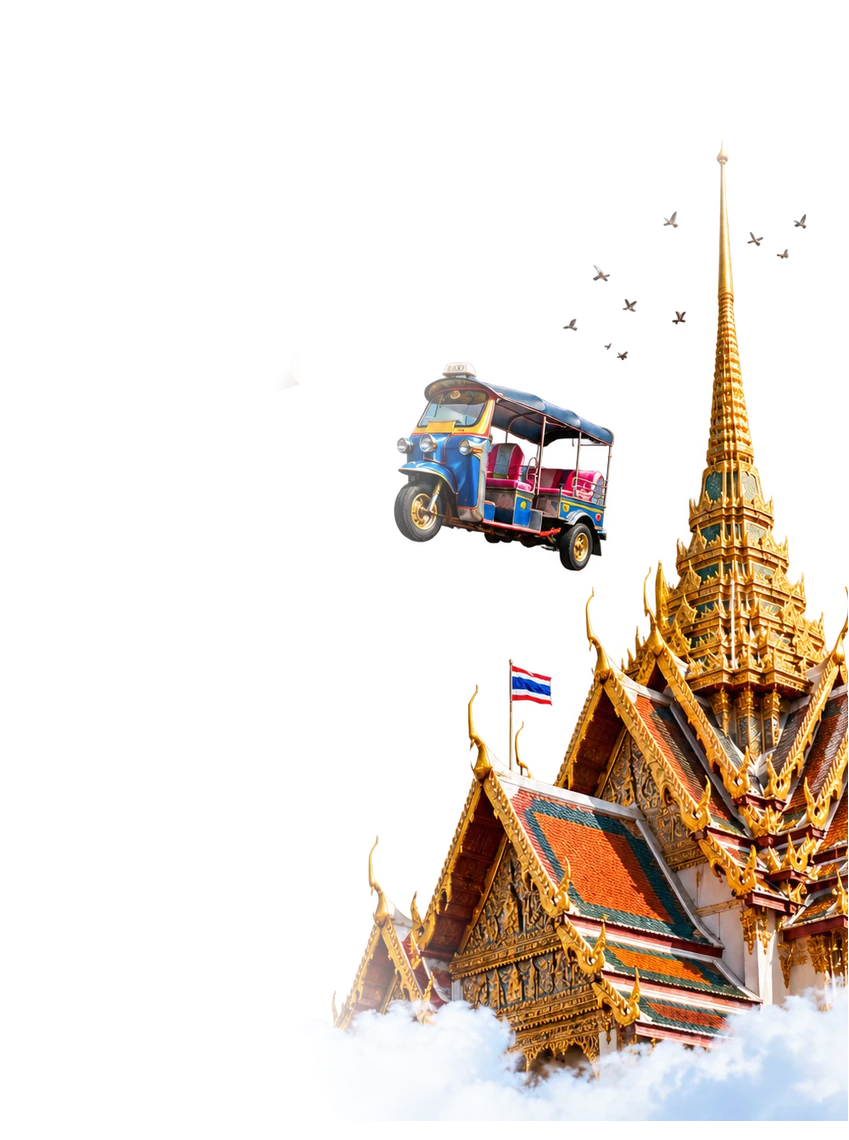
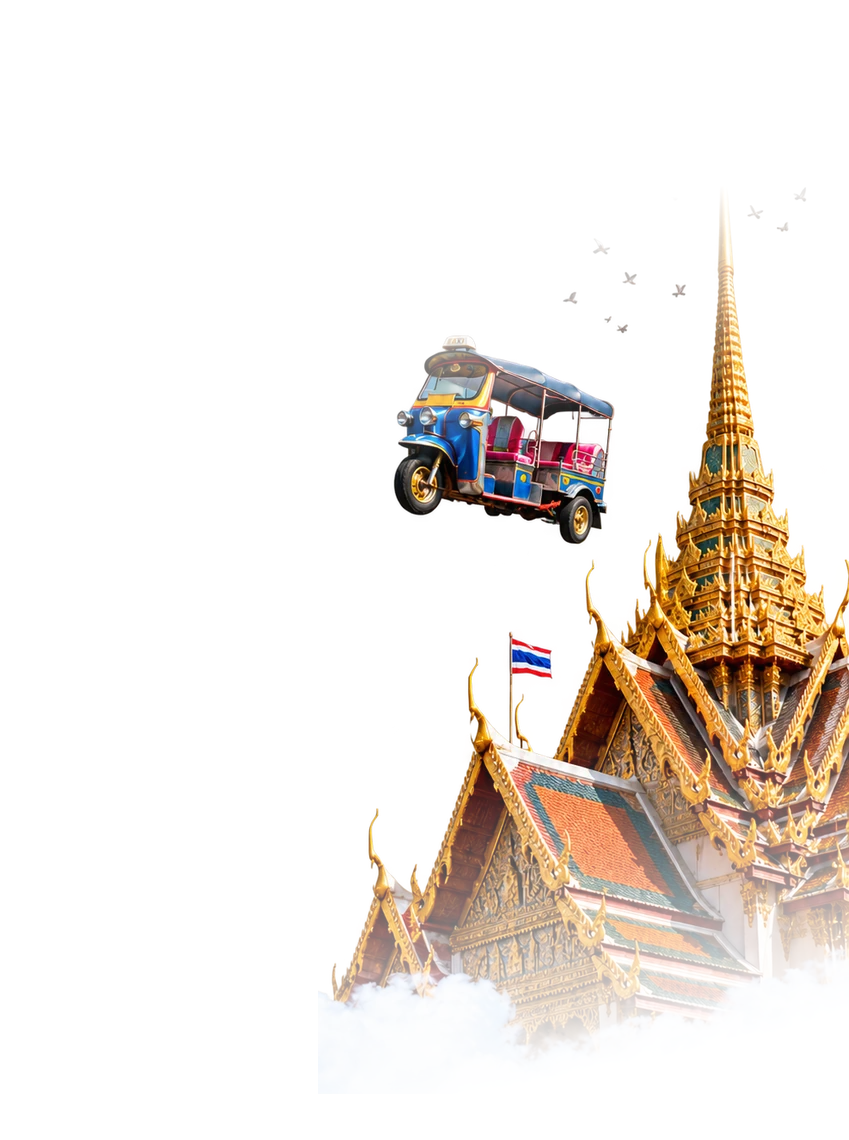
Landing: updated temple art crop and fade, side cards solid at the outer edge, flag stays on the Thailand line
Claude-Session: https://claude.ai/code/session_013MdCXttExsD2CyVM1aGLkq

diff --git a/index.html b/index.html
@@ -124,7 +124,7 @@ h1{font-weight:800;font-size:28px;letter-spacing:-1px;text-align:center;line-hei
 .top .header{position:relative;z-index:1}
 /* sits 31px above the header, as in the frame, whether or not the status bar shows */
 .decoTop.mapfade{top:calc(100% - 75px);left:auto;height:380px;overflow:visible;-webkit-mask-image:none;mask-image:none}
-.heroTitle{padding:10px 24px;width:261px;text-align:left;font-weight:900;font-size:40px;line-height:46px;letter-spacing:-1px;color:#111214}
+.heroTitle{padding:10px 24px;width:max-content;white-space:nowrap;text-align:left;font-weight:900;font-size:40px;line-height:46px;letter-spacing:-1px;color:#111214}
 .heroTitle .lt{font-weight:500}
 .carousel .views span,.row .views span,.deck .views span{font-weight:700;color:#c4a3ff}
 .carousel .info{padding:20px 16px 16px;gap:12px}
@@ -890,7 +890,7 @@ body.locked{overflow:hidden}
       </div></div></section>
 
       <section>
-        <h1 class="heroTitle"><span class="lt">Trending in</span> Thailand 🇹🇭</h1>
+        <h1 class="heroTitle"><span class="lt">Trending in</span><br>Thailand 🇹🇭</h1>
         <div style="height:18px"></div>
         <div class="carousel" id="carousel" tabindex="0" aria-roledescription="carousel" aria-label="Trending reels"></div>
       </section>
@@ -1166,9 +1166,9 @@ function render(){
     s.style.visibility = op <= 0.01 ? "hidden" : "visible";
     s.classList.toggle("near", a < 1.2);
     const reel = s.children[1];
-    const m = d >= 0
-      ? `linear-gradient(to right, rgba(0,0,0,${(1-.22*t).toFixed(3)}) 0%, rgba(0,0,0,${(1-t).toFixed(3)}) 53%)`
-      : `linear-gradient(to right, rgba(0,0,0,${(1-t).toFixed(3)}) 50%, rgba(0,0,0,${(1-.28*t).toFixed(3)}) 100%)`;
+    // as in the frame: a side card is solid at its outer edge and fades out toward the middle card
+    const lo = (1 - t).toFixed(3);
+    const m = `linear-gradient(to ${d >= 0 ? "right" : "left"}, rgba(0,0,0,${lo}) 0%, rgba(0,0,0,${lo}) 13.3%, #000 100%)`;
     reel.style.webkitMaskImage = reel.style.maskImage = t < .001 ? "none" : m;
   }
   const c = ((Math.round(pos) % N) + N) % N;
